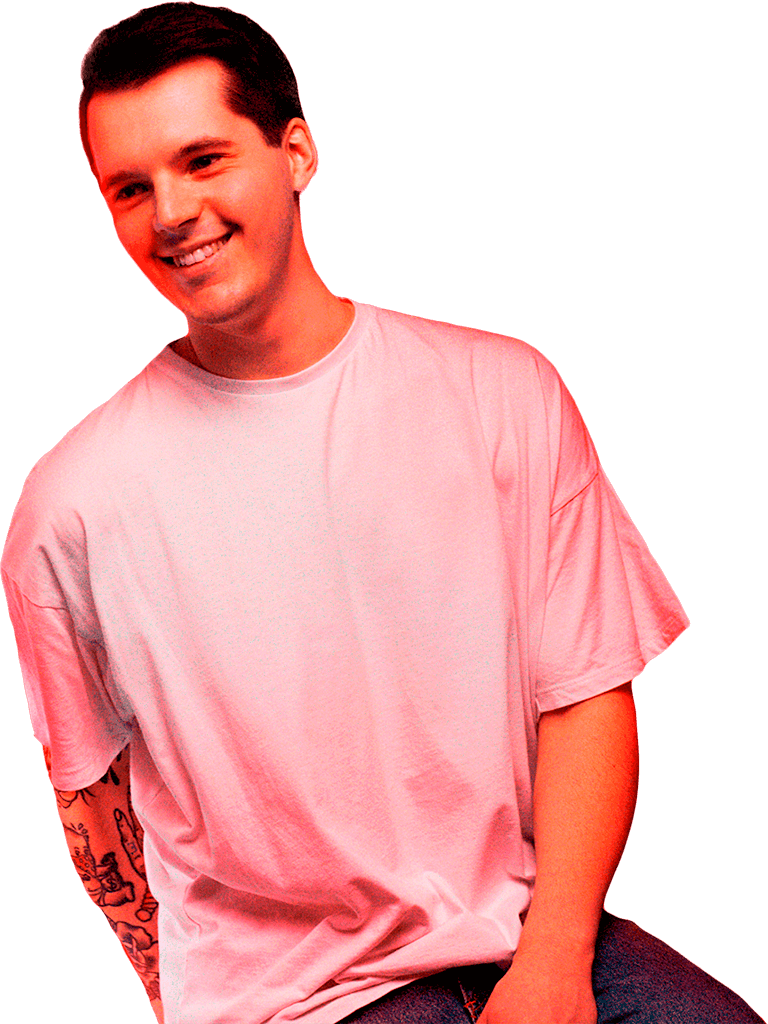
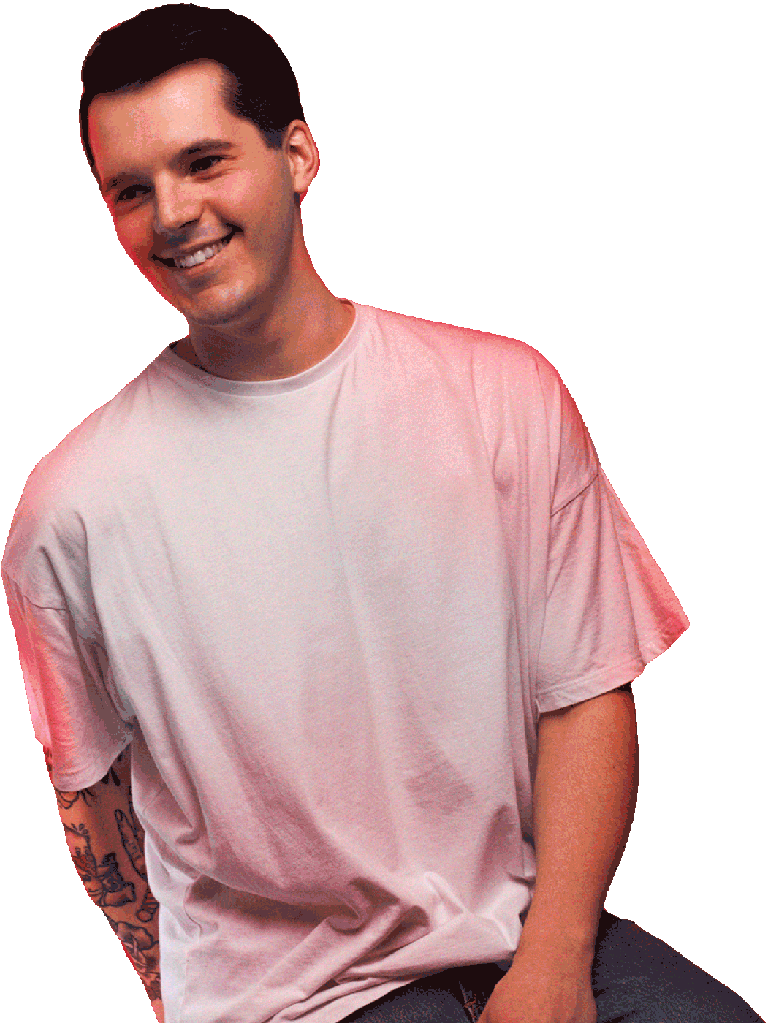
images

diff --git a/gatsby-config.js b/gatsby-config.js
@@ -40,7 +40,8 @@ module.exports = {
       resolve: `gatsby-source-filesystem`,
       options: {
         name: `assets`,
-        path: `${__dirname}/src/assets`,
+        path: `${__dirname}/src/assets/`,
+        ignore: ['**/*.mp4']
       },
     },
     `gatsby-transformer-sharp`,
